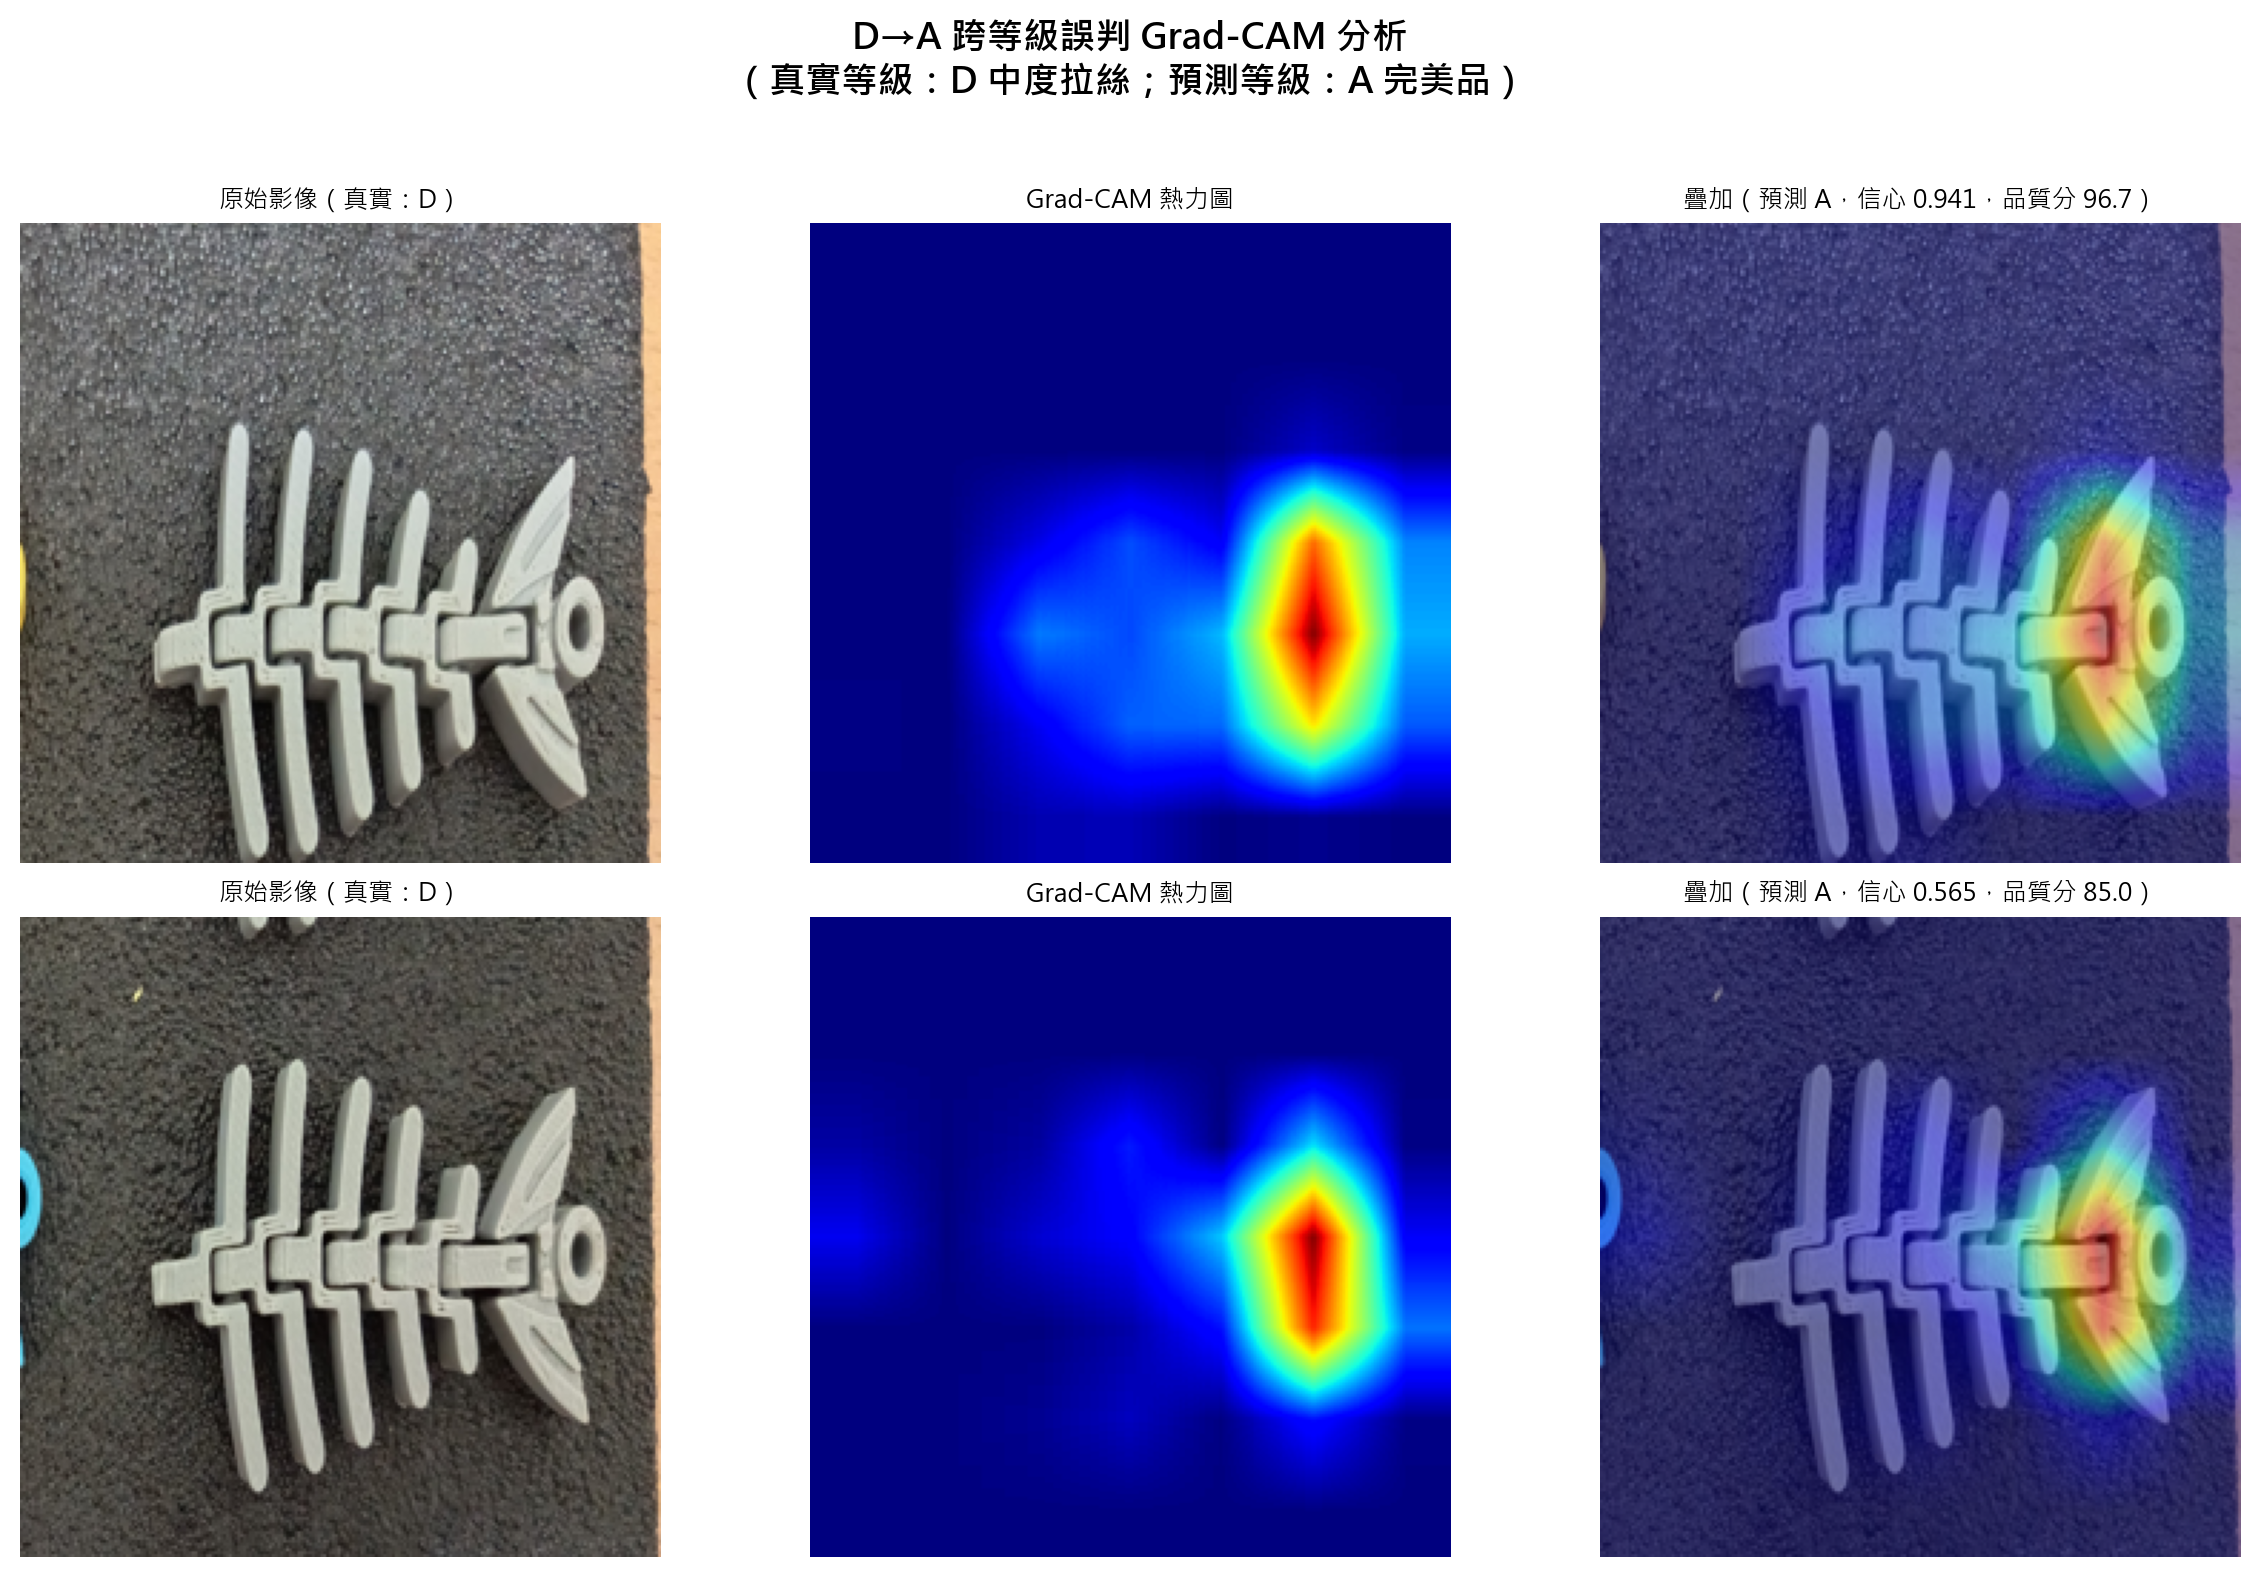
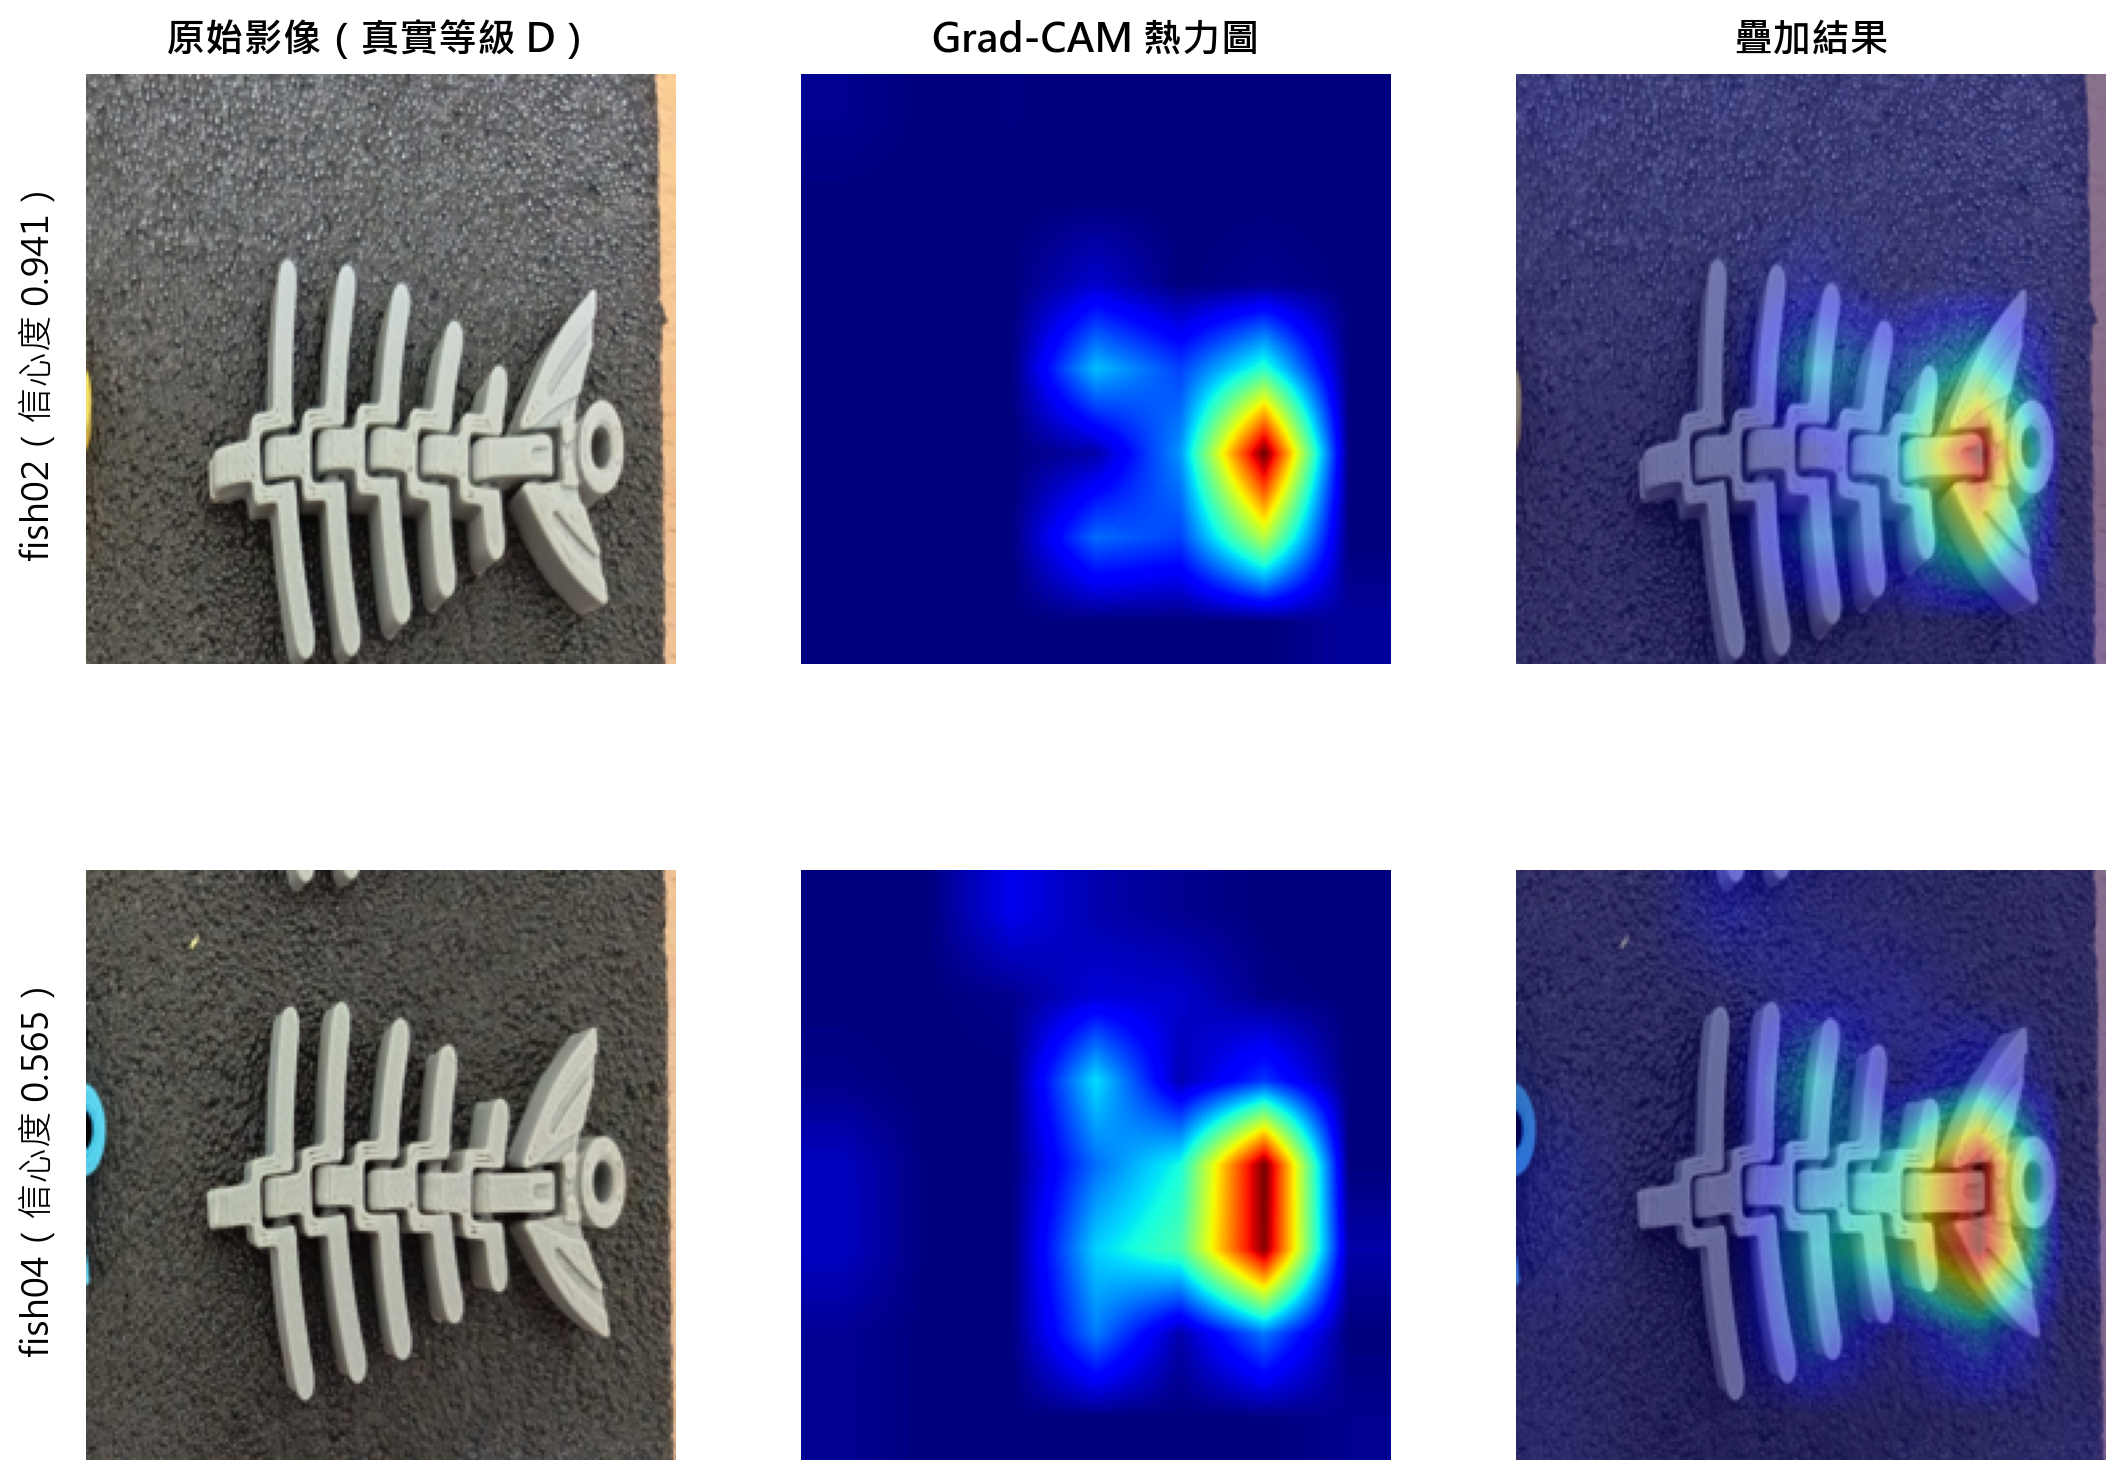
docs(ntsc): 重製圖4-2字體、刪外封、內封月份改05
- gradcam-DA-misclassified.png：以 DefectModel + 原始裁切圖重新生成，
  figsize 13.5×9、fontsize 13–14pt，原始影像欄文字明顯放大
- paper.md：刪除外封頁（\begin{titlepage} 國科會補助版），保留內封頁
- paper.md：內封月份 04 → 05

diff --git a/ntsc/paper.md b/ntsc/paper.md
@@ -16,7 +16,7 @@ period-months: "計 8 個月"
 affiliation: "國立聯合大學機械工程學系"
 handling-method: "本計畫可公開查詢"
 year: "115"
-month: "04"
+month: "05"
 day: "27"
 
 # ============================================================
@@ -73,66 +73,6 @@ numbersections: true
 secnumdepth: 4
 toc: false
 ---
-
-<!-- ============================================================ -->
-<!-- 封面頁（國科會大專學生研究計畫成果報告） -->
-<!-- ============================================================ -->
-
-\begin{titlepage}
-
-\begin{center}
-
-\vspace*{1.5cm}
-
-{\bfseries\fontsize{20pt}{28pt}\selectfont 國科會補助\par}
-
-\vspace{0.5cm}
-
-{\bfseries\fontsize{20pt}{28pt}\selectfont 大專學生研究計畫研究成果報告\par}
-
-\vspace{1.5cm}
-
-{\fontsize{16pt}{20pt}\selectfont ＊\,＊\,＊\,＊\,＊\,＊\,＊\,＊\,＊\,＊\,＊\,＊\,＊\,＊\,＊\,＊\par}
-
-\vspace{0.3cm}
-
-{\fontsize{14pt}{18pt}\selectfont 計\,畫\,名\,稱：\ProjectTitleZh\par}
-
-\vspace{0.3cm}
-
-{\fontsize{16pt}{20pt}\selectfont ＊\,＊\,＊\,＊\,＊\,＊\,＊\,＊\,＊\,＊\,＊\,＊\,＊\,＊\,＊\,＊\par}
-
-\end{center}
-
-\vspace{1.2cm}
-
-\noindent\hspace*{2cm}\begin{minipage}{0.8\textwidth}
-\setlength{\parskip}{0.35cm}
-
-執行計畫學生：\StudentName
-
-學生計畫編號：\ProjectId
-
-研\,究\,期\,間：\PeriodFrom 至 \PeriodTo 止，\PeriodMonths
-
-指\,導\,教\,授：\AdvisorName
-\end{minipage}
-
-\vfill
-
-\begin{center}
-\setlength{\parskip}{0.3cm}
-
-處理方式：\HandlingMethod
-
-執\,行\,單\,位：\Affiliation
-
-中\,華\,民\,國\,\ROCYear\ 年\ \ROCMonth\ 月\ \ROCDay\ 日
-\end{center}
-
-\vspace*{0.5cm}
-
-\end{titlepage}
 
 <!-- ============================================================ -->
 <!-- 內封頁 -->
@@ -875,7 +815,7 @@ Macro avg     & 0.823 & 0.776 & 0.791 & 168 \\
 
 \begin{figure}[H]
 \centering
-\includegraphics[width=0.96\textwidth,height=0.52\textheight,keepaspectratio]{images/gradcam-DA-misclassified.png}
+\includegraphics[width=0.96\textwidth,height=0.75\textheight,keepaspectratio]{images/gradcam-DA-misclassified.png}
 \caption{D→A 跨等級誤判 Grad-CAM 分析（上：fish02，信心度 0.941；下：fish04，信心度 0.565）。左欄為原始影像（真實等級 D），中欄為熱力圖，右欄為疊加結果；兩者熱力圖激活均偏離拉絲細絲區域。}
 \label{fig:gradcam-da}
 \end{figure}
